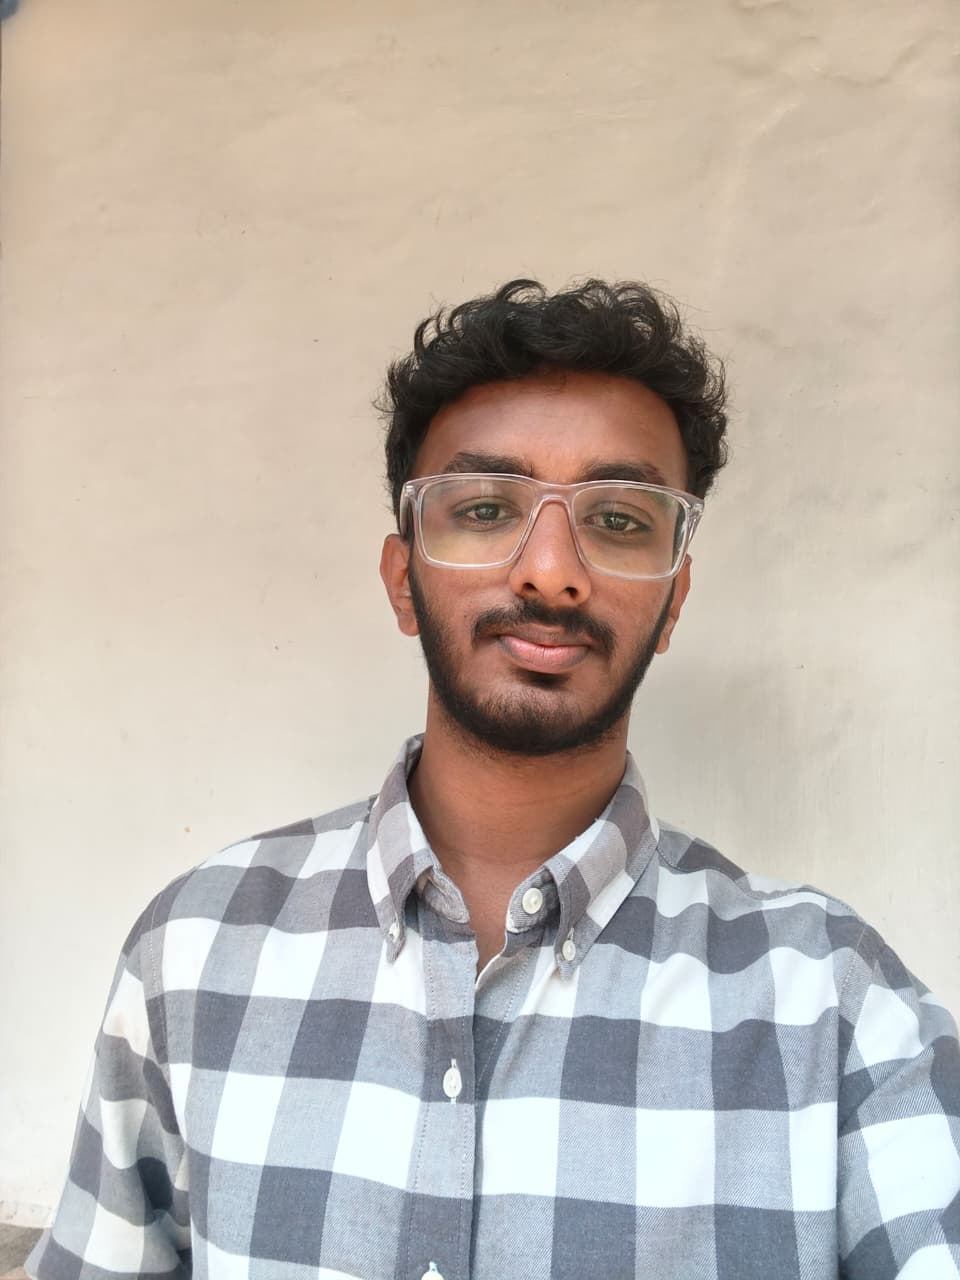
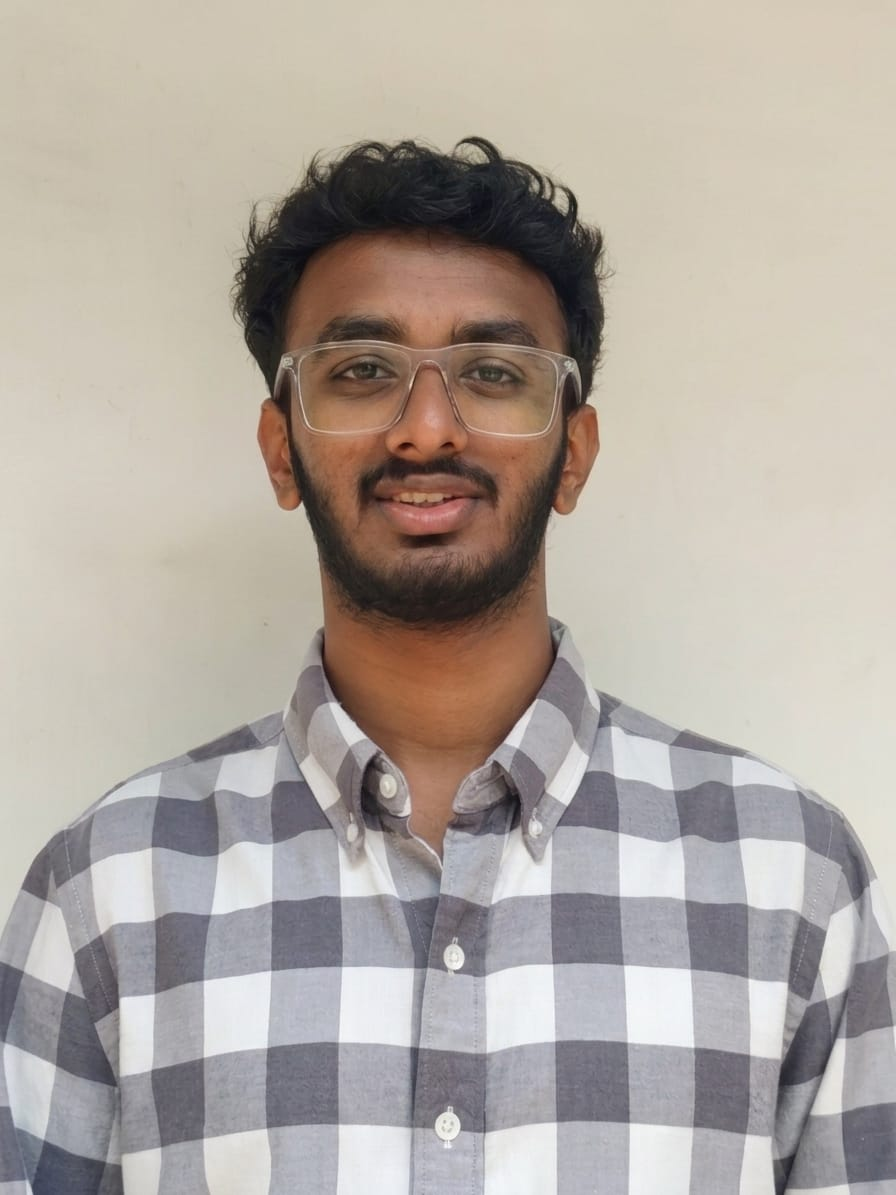
Feat: Experience, Skill, Profile Card Updated

diff --git a/src/assets/Components/Intro.jsx b/src/assets/Components/Intro.jsx
@@ -2,13 +2,19 @@ import React from "react";
 import "../css/intro.css";
 import { FaGithub, FaLinkedin, FaDownload } from "react-icons/fa";
 import ProfileCard from "@/components/ProfileCard";
-import { useSmoothScroll } from "../Hook/scrollToSection";
+import { useSmoothScroll } from "../Hook/scrollToSection";  
+import { motion } from "motion/react";
 
 function Intro() {
 
   const scroll = useSmoothScroll();
   return (
-    <div className="intro-container min-h-screen flex items-center justify-center px-6 lg:mt-10 md:mt-30  mt-30 relative z-10">
+    <motion.div
+      initial={{ opacity: 0, y: 20 }}
+      animate={{ opacity: 1, y: 0 }}
+      transition={{ delay: 0.4, duration: 0.6 }}
+      className="intro-container min-h-screen flex items-center justify-center px-6 lg:mt-10 md:mt-30  mt-30 relative z-10"
+    >
       <div className="grid grid-cols-1 lg:grid-cols-2 gap-12 xl:gap-24 items-center max-w-7xl">
         <div className="intro-content text-center lg:text-left">
           <div className="inline-block px-4 py-1.5 rounded-full bg-purple-800/20 border border-purple-500/30 mb-6">
@@ -32,7 +38,7 @@ function Intro() {
             <span className="text-purple-500">Full Stack Developer</span>{" "}
             focused on building high-performance, user-centric web applications.
           </p>
-
+          
           <div className="flex justify-center lg:justify-start gap-4 mt-8">
             <a href="https://github.com/lowdevco" target="_blank">
               <button className="p-3 rounded-lg bg-gray-900 border border-white/10 text-white hover:bg-purple-800 transition-all shadow-lg">
@@ -59,8 +65,7 @@ function Intro() {
 
             <button className="py-4 px-8 bg-gray-900 hover:bg-gray-800 text-white font-bold rounded-lg border border-white/10 flex items-center justify-center gap-3 transition-all">
               <a
-                href=""
-                target="_blank"
+                href="https://drive.google.com/uc?export=download&id=1bD0EGHS6Ni0leqbfHd4yA_nnpwh4tx20"
                 className="flex items-center justify-center gap-3 transition-all"
               >
                 Get Resume
@@ -72,11 +77,11 @@ function Intro() {
 
         {/* Profile Card Section */}
 
-        <div className="flex justify-center items-center">
+        <motion.div initial={{ opacity: 0, y: 20 }} animate={{ opacity: 1, y: 0 }} transition={{ delay: 0.4, duration: 0.6 }} className="flex justify-center items-center">
           <ProfileCard />
-        </div>
+        </motion.div>
       </div>
-    </div>
+    </motion.div>
   );
 }
 

diff --git a/src/assets/Components/Experience.jsx b/src/assets/Components/Experience.jsx
@@ -3,18 +3,25 @@ import ExperienceItem from "@/components/ExperienceItem";
 
 function Experience() {
   const experiences = [
-  
-  // Note: To add more experience, Add another object to this array with the appropriate details. 
-  
+    // Note: To add more experience, Add another object to this array with the appropriate details.
+
     {
       company: "Freelance / Personal Projects",
       role: "Full Stack Developer",
-      duration: "June 2025 - Present",
+      duration: "June 2025 - April 2026",
       description:
         "Developing end-to-end web applications including an e-commerce platform with React, focusing on state management and payment integration.",
       skills: ["React", "Node.js", "Tailwind CSS", "Razorpay"],
     },
 
+    {
+      company: "Xeventure IT Solutions",
+      role: "Full Stack Developer Intern",
+      duration: "May 2026 - Present",
+      description:
+        "Collaborating with senior developers to build and maintain full-stack web applications using React and Django. I assist in translating complex design requirements into functional code while optimizing frontend performance with Tailwind CSS. My role involves developing robust REST APIs and ensuring seamless integration between the database and user interface for Webapps",
+      skills: ["React", "Django", "Tailwind CSS", "REST API", "MySQL"],
+    },
   ];
 
   return (

diff --git a/src/assets/Components/Skill.jsx b/src/assets/Components/Skill.jsx
@@ -11,6 +11,11 @@ import {
   SiBootstrap,
   SiPostman,
   SiFigma,
+  SiDjango,
+  SiMysql,
+  SiJquery,
+  SiSqlite,
+
 } from "react-icons/si";
 
 
@@ -44,11 +49,14 @@ function Skill() {
 
   const skills = [
     { name: "React", icon: <FaReact className="text-white" /> },
-    { name: "Node.js", icon: <DiNodejsSmall className="text-white" /> },
+    { name: "Django", icon: <SiDjango className="text-white" /> },
     { name: "Python", icon: <SiPython className="text-white" /> },
     { name: "Tailwind", icon: <SiTailwindcss className="text-white" /> },
     { name: "JavaScript", icon: <SiJavascript className="text-white" /> },
-  ];
+    { name: "Nodejs", icon: <DiNodejsSmall className="text-white" /> },
+    { name: "Mysql", icon: <SiMysql className="text-white" /> },
+    { name: "Sqlite", icon: <SiSqlite className="text-white" /> },
+  ];  
 
   const tools = [
     { name: "Git", icon: <SiGit className="text-white" /> },
@@ -56,6 +64,7 @@ function Skill() {
     { name: "VS Code", icon: <VscVscode className="text-white" /> },
     { name: "Postman", icon: <SiPostman className="text-white" /> },
     { name: "Figma", icon: <SiFigma className="text-white" /> },
+    { name: "jQuery", icon: <SiJquery className="text-white" />},
   ];
 
   return (

diff --git a/src/assets/Components/Footer.jsx b/src/assets/Components/Footer.jsx
@@ -1,13 +1,14 @@
 import React from "react";
 import { SiGithub, SiLinkedin, SiInstagram, SiX } from "react-icons/si";
 import "../css/footer.css";
+import { motion } from "motion/react";
 
 function Footer() {
   const currentYear = new Date().getFullYear();
 
   return (
-    <footer className="footer-container py-12 px-6 relative z-10">
-      <div className="max-w-6xl mx-auto">
+    <motion.footer initial={{ opacity: 0, y: 20 }} animate={{ opacity: 1, y: 0 }} transition={{ delay: 0.4, duration: 0.6 }} className="footer-container py-12 px-6 relative z-10">
+      <div initial={{ opacity: 0, y: 20 }} animate={{ opacity: 1, y: 0 }} transition={{ delay: 0.4, duration: 0.6 }} className="max-w-6xl mx-auto">
         <div className="bg-gray-900/60 border border-white/10 backdrop-blur-xl rounded-xl p-8 md:p-12 shadow-2xl overflow-hidden relative group">
           <div className="absolute -top-24 -right-24 w-64 h-64 bg-purple-600/10 blur-[100px] group-hover:bg-purple-600/20 transition-all duration-700" />
 
@@ -65,7 +66,7 @@ function Footer() {
           <div className="w-full h-[1px] bg-gradient-to-r from-transparent via-purple-500/20 to-transparent mt-10" />
         </div>
       </div>
-    </footer>
+    </motion.footer>
   );
 }
 

diff --git a/src/assets/Components/About.jsx b/src/assets/Components/About.jsx
@@ -2,10 +2,11 @@ import React from "react";
 import "../css/about.css";
 import PhotoCard from "@/components/PhotoCard";
 import { Link } from "react-router-dom";
+import { motion } from "motion/react";
 
 function About() {
   return (
-    <div className="about-container grid items-center justify-center grid-cols-1 lg:grid-cols-2 gap-12 w-[90%] xl:w-[70%] my-24 mx-auto relative z-10">
+    <motion.div initial={{ opacity: 0, y: 20 }} animate={{ opacity: 1, y: 0 }} transition={{ delay: 0.4, duration: 0.6 }} className="about-container grid items-center justify-center grid-cols-1 lg:grid-cols-2 gap-12 w-[90%] xl:w-[70%] my-24 mx-auto relative z-10">
       {/* Text Section */}
       <div className="order-2 lg:order-1 text-center lg:text-left">
         <h1 className="about-title text-5xl md:text-7xl font-extrabold text-white tracking-tight">
@@ -30,7 +31,7 @@ function About() {
       <div className="order-1 lg:order-2 flex justify-center perspective-2000">
         <PhotoCard />
       </div>
-    </div>
+    </motion.div>
   );
 }
 

diff --git a/src/assets/Components/Navbar.jsx b/src/assets/Components/Navbar.jsx
@@ -1,6 +1,7 @@
 import React, { useState } from "react";
 import "../css/navbar.css";
 import { useSmoothScroll } from "../Hook/scrollToSection";
+import { motion } from "motion/react";  
 
 function Navbar() {
 
@@ -17,8 +18,8 @@ function Navbar() {
   ];
 
   return (
-    <nav
-      className="fixed top-6 left-1/2 -translate-x-1/2 z-1000 w-[90%] max-w-5xl 
+    <motion.nav
+      initial={{ opacity: 0, y: 20 }} animate={{ opacity: 1, y: 0 }} transition={{ delay: 0.4, duration: 0.6 }} className="fixed top-6 left-1/2 -translate-x-1/2 z-1000 w-[90%] max-w-5xl 
                     h-16 px-8 flex items-center justify-between
                     bg-gray-900/40 backdrop-blur-md border border-white/10 
                     rounded-lg shadow-2xl transition-all duration-300"
@@ -79,7 +80,7 @@ function Navbar() {
           </a>
         ))}
       </div>
-    </nav>
+    </motion.nav>
   );
 }
 

diff --git a/src/assets/Components/Contact.jsx b/src/assets/Components/Contact.jsx
@@ -2,6 +2,7 @@ import React, { useState } from "react";
 import { SiGithub, SiLinkedin, SiInstagram, SiGmail } from "react-icons/si";
 import { FaMapMarkerAlt, FaPhoneAlt } from "react-icons/fa";
 import "../css/contact.css";
+import { motion } from "motion/react";
 
 function Contact() {
   const [formData, setFormData] = useState({
@@ -88,8 +89,7 @@ function Contact() {
   ];
 
   return (
-    <section
-      className="contact-section py-20 px-6 max-w-7xl mx-auto relative z-10"
+    <motion.section initial={{ opacity: 0, y: 20 }} animate={{ opacity: 1, y: 0 }} transition={{ delay: 0.4, duration: 0.6 }} className="contact-section py-20 px-6 max-w-7xl mx-auto relative z-10"
       id="contact"
     >
       <div className="text-center mb-16">
@@ -211,7 +211,7 @@ function Contact() {
           </form>
         </div>
       </div>
-    </section>
+    </motion.section>
   );
 }
 

diff --git a/src/assets/Components/Project.jsx b/src/assets/Components/Project.jsx
@@ -5,6 +5,7 @@ import promyc from "../image/project/promyc.png"
 import MovieBox from "../image/project/movie.png"
 import weather from "../image/project/weather.png"
 import orgado from "../image/project/orgado.png"
+import { motion } from "motion/react";
 
 function Project() {
   const myProjects = [
@@ -57,11 +58,11 @@ function Project() {
         <div className="h-1.5 w-24 bg-purple-800 mt-4 rounded-full mx-auto lg:mx-0" />
       </div>
 
-      <div className="grid grid-cols-1 md:grid-cols-2 gap-10">
+      <motion.div initial={{ opacity: 0, y: 20 }} animate={{ opacity: 1, y: 0 }} transition={{ delay: 0.4, duration: 0.6 }} className="grid grid-cols-1 md:grid-cols-2 gap-10">
         {myProjects.map((project, index) => (
           <ProjectCard key={index} {...project} />
         ))}
-      </div>
+      </motion.div>
     </section>
   );
 }
